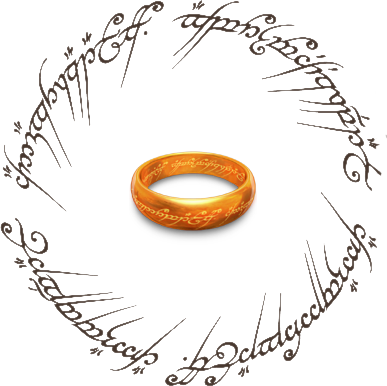
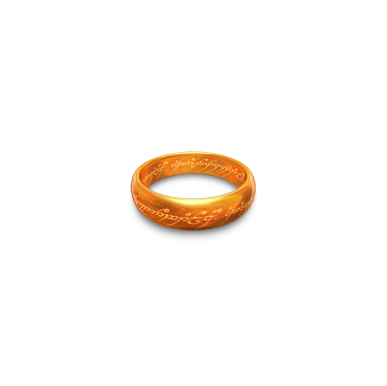
Rotating ring poem, slightly updated graphics.

diff --git a/mystyles.css b/mystyles.css
@@ -3,9 +3,43 @@ html, body {
 }
 
 body {
-    background: url('chrome-extension://ebbkimkddkofmjnaghckhakcgimifakd/images/ring.png') center center no-repeat, url('chrome-extension://ebbkimkddkofmjnaghckhakcgimifakd/images/wood.jpg') !important;
+    background:
+        url('chrome-extension://ebbkimkddkofmjnaghckhakcgimifakd/images/ring.png') center center no-repeat,
+        url('chrome-extension://ebbkimkddkofmjnaghckhakcgimifakd/images/wood.jpg') !important;
     box-shadow: inset 0 0 200px rgba(0,0,0,.8) !important;
 }
+
+body:after {
+    content: ' ';
+    position: fixed;
+    opacity: .8;
+    top: 0;
+    left: 0;
+    right: 0;
+    bottom: 0;
+    background: url('chrome-extension://ebbkimkddkofmjnaghckhakcgimifakd/images/poem.png') center center no-repeat;
+    -webkit-animation-name: spin;
+    -webkit-animation-duration: 2500000ms;
+    -webkit-animation-iteration-count: infinite;
+    -webkit-animation-timing-function: linear;
+    -moz-animation-name: spin;
+    -moz-animation-duration: 2500000ms;
+    -moz-animation-iteration-count: infinite;
+    -moz-animation-timing-function: linear;
+    -ms-animation-name: spin;
+    -ms-animation-duration: 2500000ms;
+    -ms-animation-iteration-count: infinite;
+    -ms-animation-timing-function: linear;
+    animation-name: spin;
+    animation-duration: 2500000ms;
+    animation-iteration-count: infinite;
+    animation-timing-function: linear;
+}
+
+@-ms-keyframes spin { from { -ms-transform: rotate(360deg); } to { -ms-transform: rotate(0deg); }}
+@-moz-keyframes spin { from { -moz-transform: rotate(360deg); } to { -moz-transform: rotate(0deg); }}
+@-webkit-keyframes spin { from { -webkit-transform: rotate(360deg); } to { -webkit-transform: rotate(0deg); }}
+@keyframes spin { from { transform:rotate(360deg); } to { transform:rotate(0deg); }}
 
 #floatingtoolbar {
     background-color: rgba(0,0,0,.9) !important;
